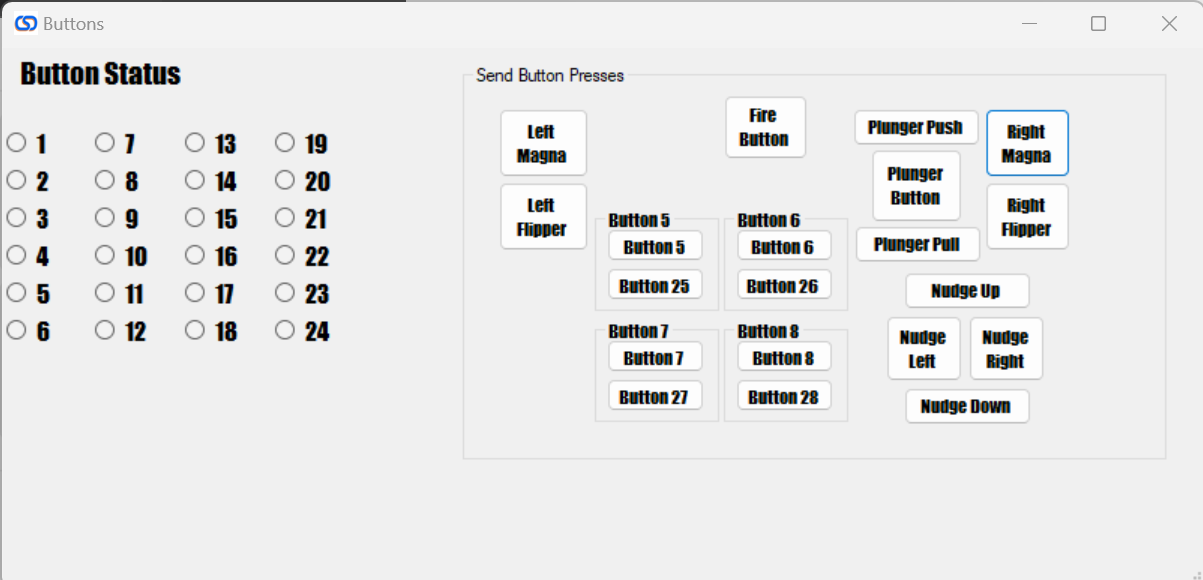
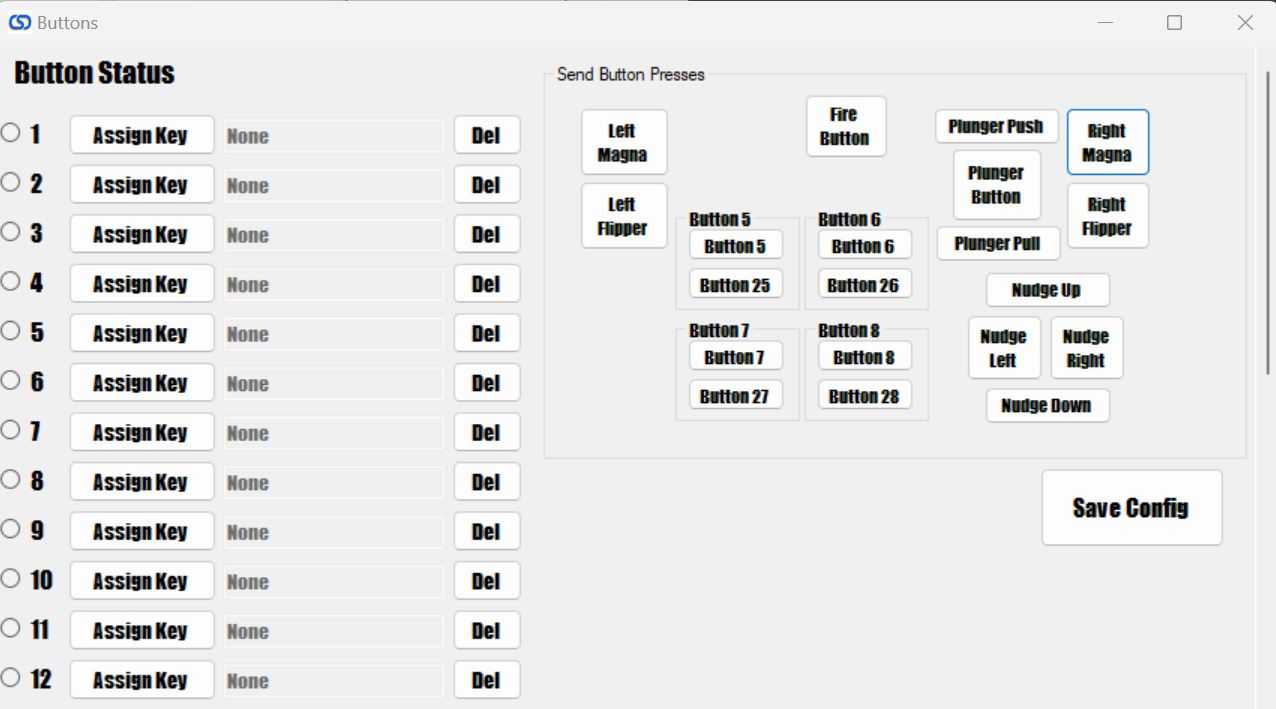
updated PinOne config images

diff --git a/docs/PinOne/Configuring/Settings/index.md b/docs/PinOne/Configuring/Settings/index.md
@@ -4,6 +4,6 @@ sidebar_position: 1
 
 # Settings Menu
 
-The settings screen allows you to adjust all settings for the PinOne in one place. Once you have adjusted the settings, click the "Upload Config" button to save them in memory on the PinOne. This will allow you to see how things work before committing the changes, but if the USB cable is disconnected from the PinOne then your changes will be lost and they will revert to the settings as they were before entering the menu. So save the values permanently, click the "Save Config" button.
+The settings screen allows you to adjust all settings for the PinOne in one place. Once you have adjusted the settings, click the "Save Config" button to save them on the PinOne. Once you save the changes, even if the USB cable is disconnected from the PinOne then your changes will be restored.
 
 ![image](./img/settingsButtons.png)

diff --git a/docs/PinOne/Configuring/inputs.md b/docs/PinOne/Configuring/inputs.md
@@ -9,3 +9,7 @@ sidebar_position: 4
 ## Send button presses
 
 Besides the obvious of being able to see button presses made in the PinOne board when in this screen, it also provides a way to send button inputs out to the computer that are not generally easy to send like the accelerometer left, right, up, down, and the plunger up, down as well as the plunger button press if configured. This allows you to setup the PinOne board in steam and properly assign inputs to each of the different controller functions.
+
+## Send Keyboard Presses
+
+Next to each button is the option to set a keyboard keypress for each button input. When set, this will send a keyboard keystroke as well as the button press with each press of a button. This can be helpful for games that don't support a game controller or if you want to use a standard set of keys with the PinOne.
